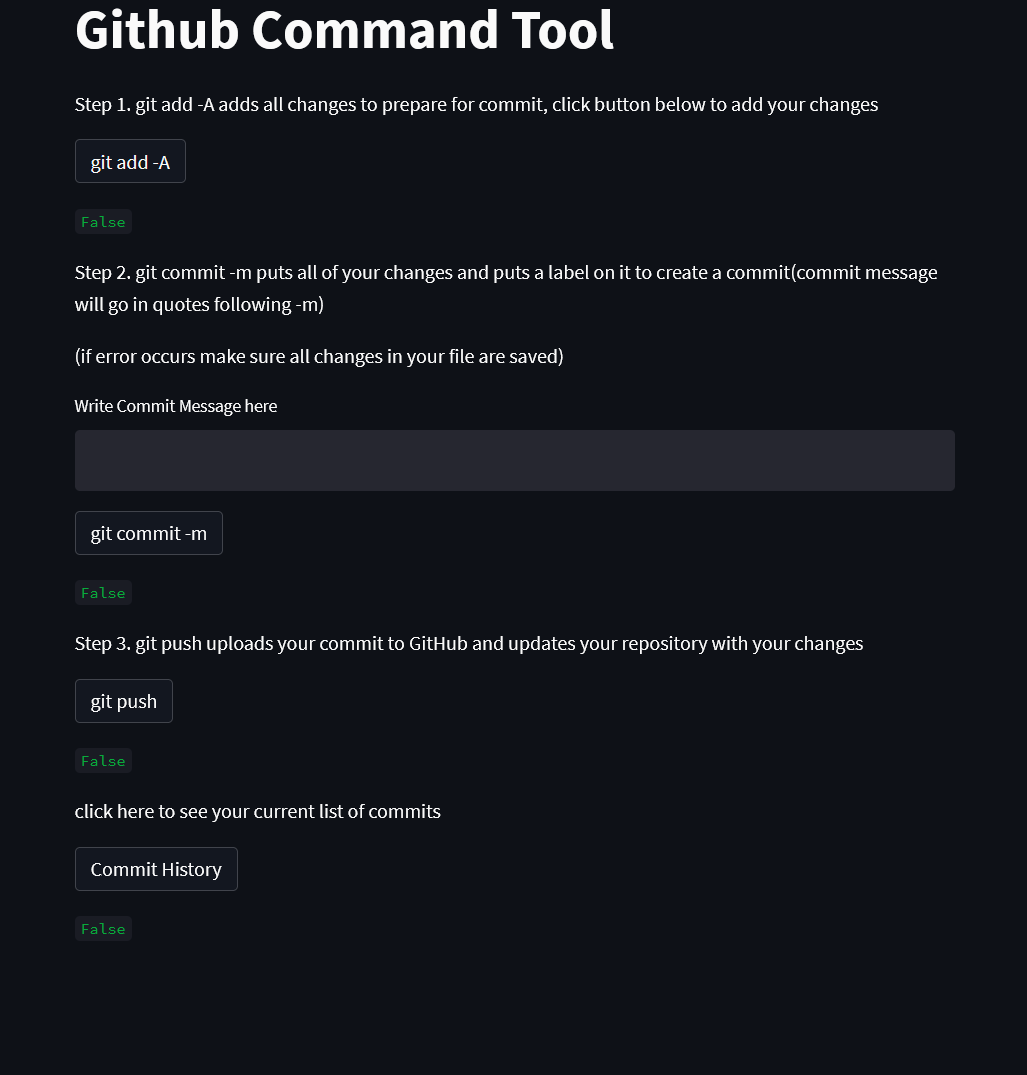
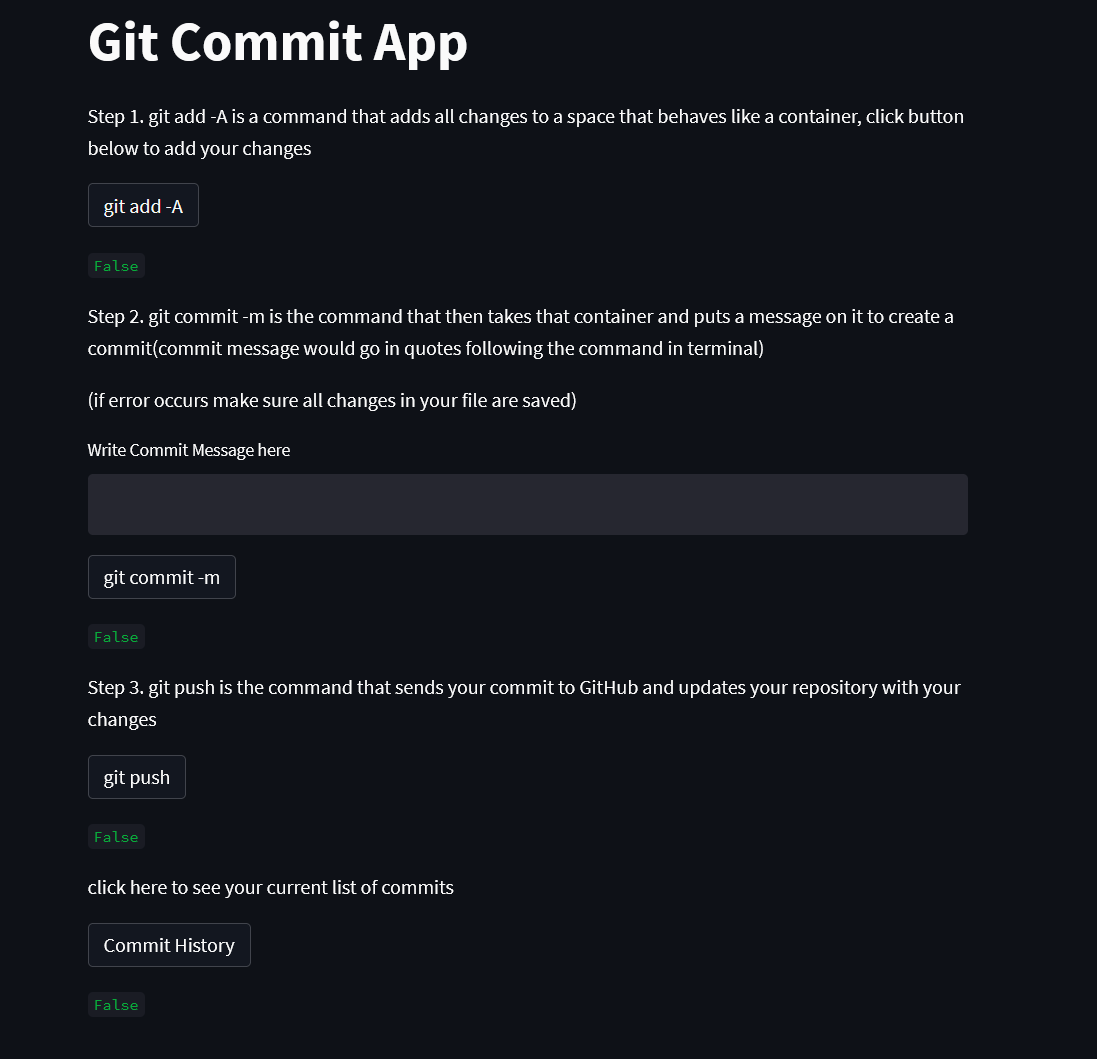
update code

diff --git a/Git-Commit-App.py b/Git-Commit-App.py
@@ -1,13 +1,11 @@
 import streamlit as st
-import numpy as np
-import requests
 from github import Github
 import re
 from git import Repo
 import git
 
 
-st.title("Github Command Tool")
+st.title("Git Commit App")
 
 #TODO Insert File directory location here
 repo = Repo("Insert file directiory of project here")
@@ -24,7 +22,7 @@ g = Github(base_url="https://github.com/api/v3", login_or_token="access_token")
 
 
 #git add
-st.write("Step 1. git add -A adds all changes to prepare for commit, click button below to add your changes")
+st.write("Step 1. git add -A  is a command that adds all changes to a space that behaves like a container, click button below to add your changes")
 result = st.button("git add -A")
 
 st.write(result)
@@ -37,7 +35,7 @@ if result:
 
 
 #git commit
-st.write("Step 2. git commit -m puts all of your changes and puts a label on it to create a commit(commit message will go in quotes following -m)")
+st.write("Step 2. git commit -m is the command that then takes that container and puts a message on it to create a commit(commit message would go in quotes following the command in terminal)")
 st.write("(if error occurs make sure all changes in your file are saved)")
 
 message = st.text_input("Write Commit Message here")
@@ -51,7 +49,7 @@ if result:
 
 
 #git push
-st.write("Step 3. git push uploads your commit to GitHub and updates your repository with your changes")
+st.write("Step 3. git push is the command that sends your commit to GitHub and updates your repository with your changes")
 result = st.button("git push")
 
 st.write(result)
